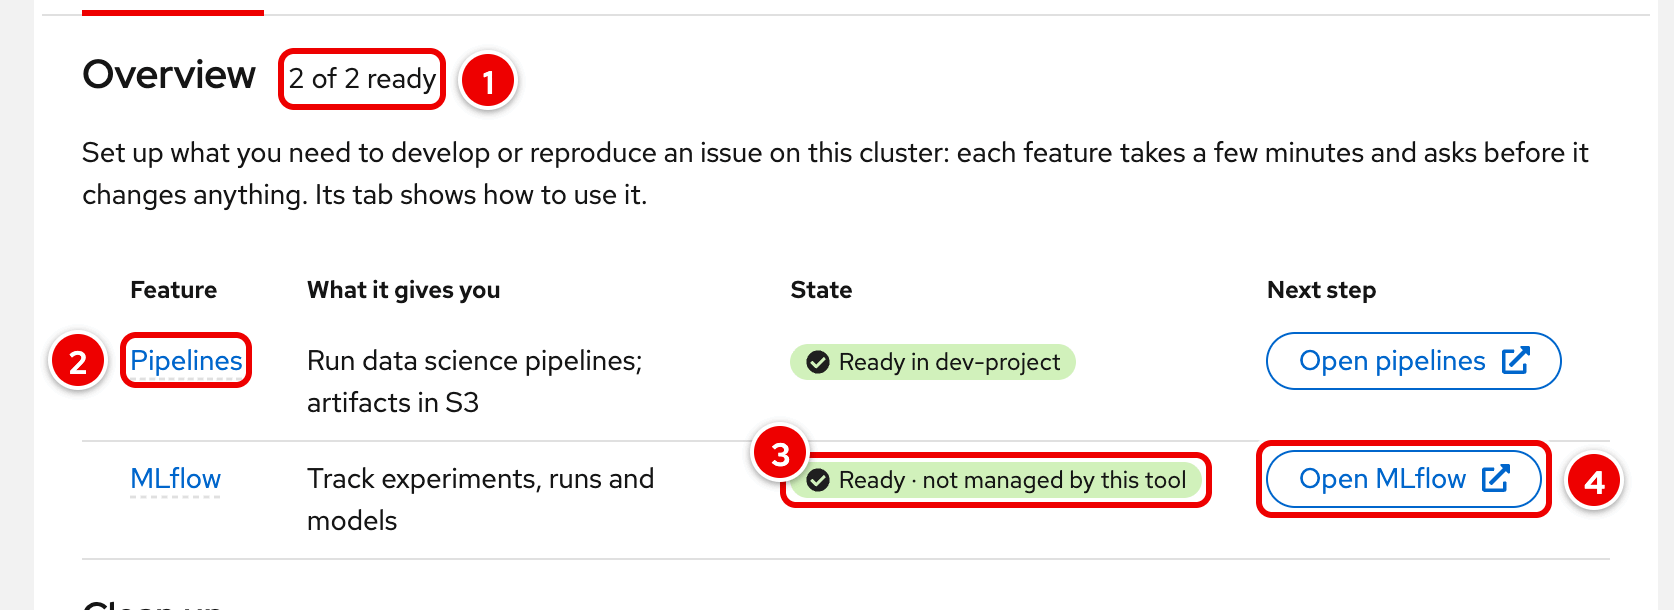
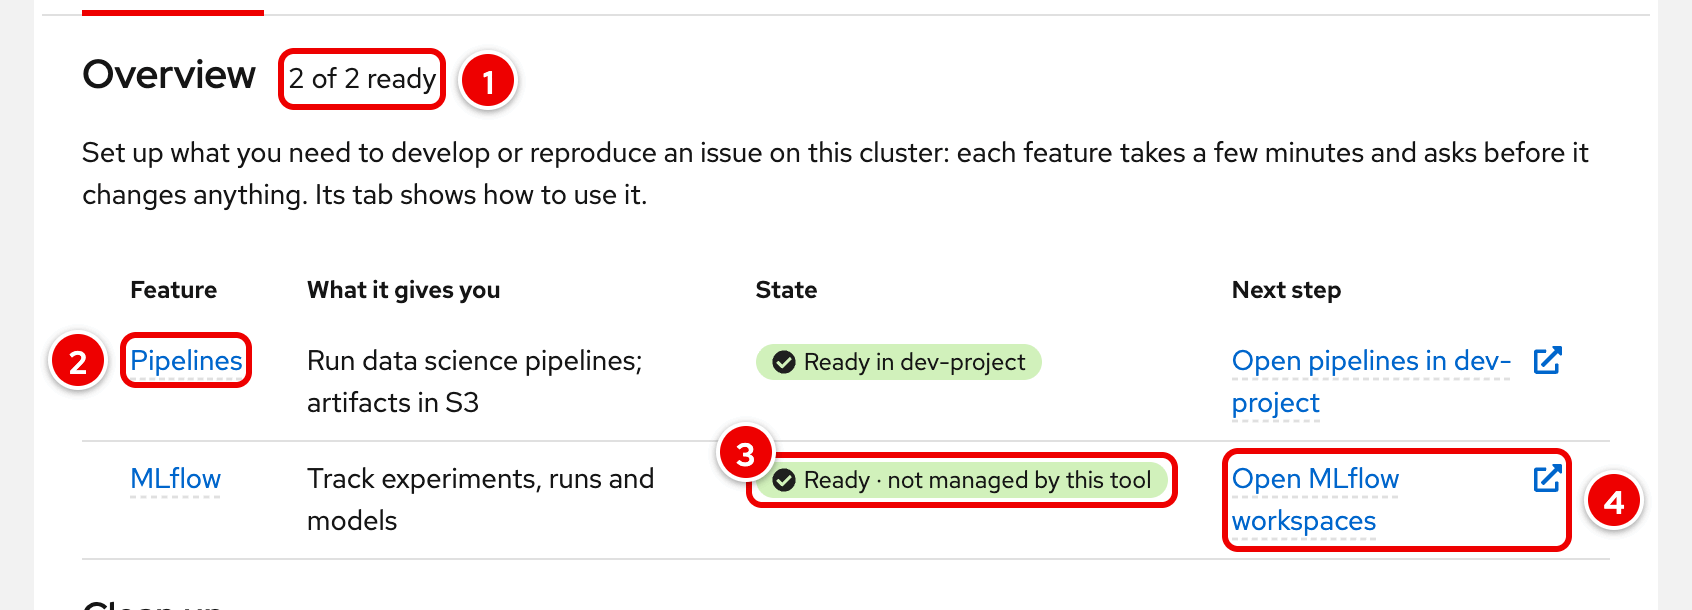
Environment: the Overview's next steps are links that say where they go
The Next step column held small secondary buttons in an action cell.
It is text in a table cell, so every step is now an inline link
(Button variant="link" isInline), as PatternFly puts links in table
cells: "Open pipelines in dev-project" and "Open MLflow workspaces" with
the external icon, "Show issue", "Choose a project", and the steps that
open a dialog with an ellipsis ("Set up MLflow…", "Migrate storage…").
hasAction and size="sm" are gone.

Every link to a project says which:
- One ready project: "Open pipelines in <project>", to its dashboard
  pipelines page (also on the pipeline server part, in the run dialog's
  primary button and in "What next").
- Several ready projects: no jump into one of them. The step is "Choose a
  project", which opens the Pipelines tab with an empty, focused picker;
  the State column says "Ready in 2 of 5 projects".
- MLflow's root is its list of workspaces (opendatahub-io/mlflow
  server/js MlflowRouter: "/" with workspaces on is a global route, the
  workspace landing page), so its link reads "Open MLflow workspaces",
  on the Overview and on the MLflow server part; "Use it" keeps "Open
  <project> in MLflow" for one workspace.

Measured on the docs mock (the vertical centre of each cell's first line
of text, from a Range's client rect), for Open, Show issue, Migrate
storage, Set up and Choose a project: at 1440, light and dark, Feature,
What it gives you and Next step are equal and the State label is 1.0 px
[…]

diff --git a/frontend/src/components/environment/Overview.tsx b/frontend/src/components/environment/Overview.tsx
@@ -2,8 +2,8 @@ import React from "react";
 import { Button, Content, Flex, FlexItem, HelperText, HelperTextItem, Stack, StackItem, Title } from "@patternfly/react-core";
 import { Table, Tbody, Td, Th, Thead, Tr } from "@patternfly/react-table";
 import { Link } from "react-router-dom";
+import ExternalLinkAltIcon from "@patternfly/react-icons/dist/esm/icons/external-link-alt-icon";
 import { TooltipButton } from "../TooltipButton";
-import { ExternalLink } from "./resourceRow";
 import { EnvStatusLabel } from "./resourceStatus";
 import { CleanupSection } from "./FeatureLayout";
 import type { FeatureState, NextStep } from "./featureState";
@@ -42,26 +42,31 @@ export const Overview: React.FC<{
   onCleanup: (() => void) | null;
 }> = ({ rows, baseReason, setUpReason, onSetUp, onShowIssue, onOpenTab, onMigrate, onCleanup }) => {
   const ready = rows.filter((r) => r.state.status === "ready").length;
+  // The next step is text in a cell, so it is an inline link, as PatternFly
+  // puts links in table cells (Button variant="link" isInline): it sits on
+  // the row's text line. A step that opens a dialog ends with an ellipsis.
   const next = (row: OverviewRow, step: NextStep | null) => {
     switch (step?.kind) {
       case "open":
-        return <ExternalLink href={step.href} variant="secondary" size="sm">{step.label}</ExternalLink>;
+        return <Button variant="link" isInline component="a" href={step.href} target="_blank" rel="noopener noreferrer" icon={<ExternalLinkAltIcon />} iconPosition="end">{step.label}</Button>;
       case "set-up": {
         const reason = setUpReason ?? baseReason ?? step.reason;
         const reasonId = `overview-${row.id}-reason`;
         return (
           <Stack>
-            <StackItem><TooltipButton variant="secondary" size="sm" onClick={() => onSetUp(row, step.setup)} disabledReason={reason} aria-describedby={reason ? reasonId : undefined}>{step.label}</TooltipButton></StackItem>
+            <StackItem><TooltipButton variant="link" isInline onClick={() => onSetUp(row, step.setup)} disabledReason={reason} aria-describedby={reason ? reasonId : undefined}>{step.label}…</TooltipButton></StackItem>
             {reason && <StackItem><HelperText id={reasonId}><HelperTextItem>{reason}</HelperTextItem></HelperText></StackItem>}
           </Stack>
         );
       }
       case "show-issue":
-        return <Button variant="secondary" size="sm" onClick={() => onShowIssue(row, step.part)}>Show issue</Button>;
+        return <Button variant="link" isInline onClick={() => onShowIssue(row, step.part)}>Show issue</Button>;
       case "migrate":
-        return setUpReason ? <Button variant="secondary" size="sm" onClick={() => onShowIssue(row, "storage")}>Show issue</Button> : <Button variant="secondary" size="sm" onClick={onMigrate}>Migrate storage</Button>;
+        return setUpReason
+          ? <Button variant="link" isInline onClick={() => onShowIssue(row, "storage")}>Show issue</Button>
+          : <Button variant="link" isInline onClick={onMigrate}>Migrate storage…</Button>;
       case "choose-project":
-        return <Button variant="secondary" size="sm" onClick={() => onOpenTab(row)}>Choose a project</Button>;
+        return <Button variant="link" isInline onClick={() => onOpenTab(row)}>Choose a project</Button>;
       default:
         return null;
     }
@@ -93,7 +98,7 @@ export const Overview: React.FC<{
                 <Td dataLabel="Feature"><Link to={row.href}>{row.name}</Link></Td>
                 <Td dataLabel="What it gives you">{row.gives}</Td>
                 <Td dataLabel="State"><EnvStatusLabel status={row.state.status} text={row.state.label} /></Td>
-                <Td dataLabel="Next step" hasAction>{next(row, row.state.next)}</Td>
+                <Td dataLabel="Next step">{next(row, row.state.next)}</Td>
               </Tr>
             ))}
           </Tbody>

diff --git a/frontend/src/components/environment/featureState.test.ts b/frontend/src/components/environment/featureState.test.ts
@@ -37,7 +37,8 @@ describe("defaultProject", () => {
 
 describe("pipelinesState and mlflowState", () => {
   it("readiness is health: someone else's running MLflow is Ready, with ownership in the label", () => {
-    expect(mlflowState(FIXTURES.live)).toEqual({ status: "ready", label: "Ready · not managed by this tool", next: { kind: "open", label: "Open MLflow", href: "https://mlflow" }, project: null });
+    // MLflow's root is its list of workspaces: the label says so.
+    expect(mlflowState(FIXTURES.live)).toEqual({ status: "ready", label: "Ready · not managed by this tool", next: { kind: "open", label: "Open MLflow workspaces", href: "https://mlflow" }, project: null });
     const broken = { ...FIXTURES.live, mlflow: { ...FIXTURES.live.mlflow, ready: false, terminalError: true, waitingReason: "CrashLoopBackOff" } };
     expect(mlflowState(broken)).toMatchObject({ status: "error", label: "Error · not managed by this tool", next: { kind: "show-issue", part: "mlflow" } });
     expect(mlflowState(FIXTURES.none)).toMatchObject({ status: "not-set-up", next: { kind: "set-up", setup: [{ kind: "setup-mlflow" }], reason: null } });
@@ -70,6 +71,11 @@ describe("pipelinesState and mlflowState", () => {
       const tab = pipelinesState(s, tabProject, projects);
       expect(tab.status).toBe(overview.status);
       if (!overview.label.includes(" of ")) expect(tab.label).toBe(overview.label.startsWith("Needs attention") || overview.label.startsWith("Error") && !overview.label.includes(" in ") ? `${overview.label} in ${tabProject}` : overview.label);
+      // A link to a project says which, and the Overview's is the tab's.
+      if (overview.next?.kind === "open") {
+        expect(overview.next.label).toBe(`Open pipelines in ${tabProject}`);
+        expect(tab.next).toEqual(overview.next);
+      }
     } else {
       // No project to open: the tab shows the same cross-project state.
       expect(overview.project).toBeNull();
@@ -98,6 +104,14 @@ describe("pipelinesState and mlflowState", () => {
     expect(setUpBlocked(pipelinesState(FIXTURES.none, "a-test-project", projects))).toBeNull();
     const m = mlflowState({ ...FIXTURES.none, mlflowBlocked: { component: "mlflowoperator", reason: "MLflow is turned off." } });
     expect(m.next).toMatchObject({ kind: "set-up", label: "Set up MLflow", reason: "MLflow is turned off." });
+  });
+
+  it("several ready projects: the Overview offers the tab's picker, not a jump into one of them", () => {
+    const two: ResourcesStatus = { ...FIXTURES.live, pipelineServers: [dspa("juntao-test"), dspa("zeta")] };
+    const overview = pipelinesState(two, null, projects);
+    expect(overview).toMatchObject({ status: "ready", label: `Ready in 2 of ${projects.length} projects`, next: { kind: "choose-project" } });
+    // The tab, in one of them, links there by name.
+    expect(pipelinesState(two, "zeta", projects).next).toMatchObject({ kind: "open", label: "Open pipelines in zeta" });
   });
 
   it("nothing is offered while every part exists and one is starting; storage of an earlier version points at Migrate storage", () => {

diff --git a/frontend/src/components/environment/featureState.ts b/frontend/src/components/environment/featureState.ts
@@ -135,7 +135,7 @@ function pipelinesIn(status: ResourcesStatus | null, project: string, busy: Busy
   // artifacts in storage of its own, so this tool's storage is not its dependency.
   if (server.status === "ready" && (storage.status === "ready" || server.unmanaged)) {
     const href = pipelineServerIn(status, project)?.uiRoute;
-    return { status: "ready", label: `Ready in ${project}${unmanaged ? NOT_MANAGED : ""}`, next: href ? { kind: "open", label: "Open pipelines", href } : null, project };
+    return { status: "ready", label: `Ready in ${project}${unmanaged ? NOT_MANAGED : ""}`, next: href ? { kind: "open", label: `Open pipelines in ${project}`, href } : null, project };
   }
   if (server.status === "unknown") return { status: "unknown", label: `Unknown in ${project}${NOT_MANAGED}`, next: null, project };
   const setup: Pending[] = [];
@@ -189,9 +189,9 @@ export function pipelinesState(status: ResourcesStatus | null, project: string |
   const states = withServers.map((p) => pipelinesIn(status, p, busy));
   const ready = states.filter((s) => s.status === "ready");
   if (ready.length === 1) return ready[0];
+  // Several ready projects: no jump to one of them; the tab's picker decides.
   if (ready.length > 1) {
-    const first = ready[0];
-    return { status: "ready", label: `Ready in ${ready.length} of ${projects.length} projects`, next: first.next, project: first.project };
+    return { status: "ready", label: `Ready in ${ready.length} of ${projects.length} projects`, next: { kind: "choose-project" }, project: null };
   }
   const problem = states.find((s) => PROBLEM.includes(s.status)) ?? states.find((s) => MOVING.includes(s.status) || s.status === "setting-up") ?? states.find((s) => s.status === "unknown");
   if (problem) return problem;
@@ -207,6 +207,13 @@ export function mlflowStatus(status: ResourcesStatus | null, busy: Busy): EnvSta
   return envStatus(status?.mlflow, { busy: b });
 }
 
+/**
+ * The label of a link to MLflow's root: with workspaces on, its root is the
+ * list of workspaces, one per project (opendatahub-io/mlflow server/js
+ * MlflowRouter: "/" is a global route, WorkspacesHomeView).
+ */
+export const MLFLOW_WORKSPACES = "Open MLflow workspaces";
+
 export function mlflowState(status: ResourcesStatus | null, busy: Busy = IDLE): FeatureState {
   const mlflow = status?.mlflow;
   const s = mlflowStatus(status, busy);
@@ -214,7 +221,7 @@ export function mlflowState(status: ResourcesStatus | null, busy: Busy = IDLE): 
   const suffix = unmanaged ? NOT_MANAGED : "";
   switch (s) {
     case "ready":
-      return { status: s, label: `Ready${suffix}`, next: mlflow?.uiRoute ? { kind: "open", label: "Open MLflow", href: mlflow.uiRoute } : null, project: null };
+      return { status: s, label: `Ready${suffix}`, next: mlflow?.uiRoute ? { kind: "open", label: MLFLOW_WORKSPACES, href: mlflow.uiRoute } : null, project: null };
     case "error":
     case "needs-attention":
       return { status: s, label: `${s === "error" ? "Error" : "Needs attention"}${suffix}`, next: { kind: "show-issue", part: "mlflow" }, project: null };

diff --git a/frontend/src/pages/EnvironmentPage.test.tsx b/frontend/src/pages/EnvironmentPage.test.tsx
@@ -43,8 +43,8 @@ describe("Environment page", () => {
     const table = screen.getByRole("grid", { name: "Features" });
     expect(within(table).getAllByRole("row").slice(1).map((r) => within(r).getAllByRole("cell")[0].textContent)).toEqual(["Pipelines", "MLflow"]);
     expect(await row("Pipelines")).toHaveTextContent("Not set up in any project");
-    expect(within(await row("Pipelines")).getByRole("button", { name: "Choose a project" })).toBeInTheDocument();
-    expect(within(await row("MLflow")).getByRole("button", { name: "Set up MLflow" })).toBeInTheDocument();
+    expect(within(await row("Pipelines")).getByRole("button", { name: "Choose a project" })).toHaveClass("pf-m-inline");
+    expect(within(await row("MLflow")).getByRole("button", { name: "Set up MLflow…" })).toBeInTheDocument();
     // No endpoints, logins or teardown on the Overview.
     expect(screen.getByRole("tabpanel")).not.toHaveTextContent(/seaweedfs|Password|Tear down/);
   });
@@ -58,7 +58,9 @@ describe("Environment page", () => {
     expect(await screen.findByText("2 of 2 ready")).toBeInTheDocument();
     const mlflow = await row("MLflow");
     expect(mlflow).toHaveTextContent("Ready · not managed by this tool");
-    expect(within(mlflow).getByRole("link", { name: /Open MLflow/ })).toHaveAttribute("href", "https://mlflow.apps.example.com");
+    expect(within(mlflow).getByRole("link", { name: /Open MLflow workspaces/ })).toHaveAttribute("href", "https://mlflow.apps.example.com");
+    // One ready project: the link says which, as an inline link in the cell.
+    expect(within(await row("Pipelines")).getByRole("link", { name: /Open pipelines in juntao-test/ })).toHaveClass("pf-m-inline");
     const pipelines = await row("Pipelines");
     expect(pipelines).toHaveTextContent("Ready in juntao-test");
     expect(within(pipelines).getByRole("link", { name: "Pipelines" })).toHaveAttribute("href", "/test-resources?tab=pipelines&project=juntao-test");
@@ -79,6 +81,11 @@ describe("Environment page", () => {
     });
     renderPage("/test-resources");
     expect(await row("Pipelines")).toHaveTextContent("Ready in 2 of 5 projects");
+    // Several ready projects: no jump into one of them; the tab's picker decides.
+    expect(within(await row("Pipelines")).queryByRole("link", { name: /Open pipelines/ })).not.toBeInTheDocument();
+    fireEvent.click(within(await row("Pipelines")).getByRole("button", { name: "Choose a project" }));
+    expect(await screen.findByText("No project chosen")).toBeInTheDocument();
+    expect(screen.getByRole("combobox", { name: "Project" })).toHaveValue("");
   });
 
   it("keeps the tab and the project in the URL; back and forward work; old tabs open Pipelines", async () => {

diff --git a/frontend/src/components/environment/PipelinesTab.tsx b/frontend/src/components/environment/PipelinesTab.tsx
@@ -264,7 +264,7 @@ const PipelineServerPart: React.FC<PipelinesTabProps> = ({ status, project, busy
     : [];
   return (
     <PartItem id="pipeline-server" title="Pipeline server" scope={`In project ${project}`} status={pipelineServerStatus(status, project, busy)} unmanaged={unmanaged}
-      actions={server?.ready && server.uiRoute && !isTerminating(server) ? <ActionListItem><ExternalLink href={server.uiRoute}>Open pipelines</ExternalLink></ActionListItem> : undefined}
+      actions={server?.ready && server.uiRoute && !isTerminating(server) ? <ActionListItem><ExternalLink href={server.uiRoute}>Open pipelines in {project}</ExternalLink></ActionListItem> : undefined}
       menu={menu}>
       {unmanaged
         ? <Content component="p">Created outside this tool (for example in the dashboard); this tool leaves it alone.</Content>
@@ -285,7 +285,7 @@ const UsePipelines: React.FC<{ server: ResourceState; project: string }> = ({ se
         <DescriptionListGroup>
           <DescriptionListTerm>In the dashboard</DescriptionListTerm>
           <DescriptionListDescription>
-            <Content component="p">Open pipelines shows this project&apos;s pipelines and runs. Choose Import pipeline to upload a pipeline (a compiled YAML file), then Create run.</Content>
+            <Content component="p">Open pipelines in {project} shows its pipelines and runs. Choose Import pipeline to upload a pipeline (a compiled YAML file), then Create run.</Content>
           </DescriptionListDescription>
         </DescriptionListGroup>
       )}
@@ -365,7 +365,7 @@ export const PipelinesTab: React.FC<PipelinesTabProps> = (props) => {
           <StackItem><UsePipelines server={server} project={project} /></StackItem>
           <StackItem>
             <WhatNext id="pipelines-next" items={[
-              <>Open pipelines, then choose Import pipeline to upload a compiled pipeline.</>,
+              <>Open pipelines in {project}, then choose Import pipeline to upload a compiled pipeline.</>,
               <>Create a run; its steps write their artifacts to the S3 storage.</>,
               <>Follow the run and open its artifacts from the run&apos;s page.</>,
             ]} />

diff --git a/frontend/src/components/QuickResourceCreator.tsx b/frontend/src/components/QuickResourceCreator.tsx
@@ -403,8 +403,8 @@ export const QuickResourceCreator: React.FC<QuickResourceCreatorProps> = ({ muta
   const runNext: NextStep | null = run.run?.kind === "setup" ? (runFeature === "mlflow" ? mlflowNow.next : pipelines.next) : null;
   const whatNext = run.run?.kind === "setup"
     ? <Content component="p">{runFeature === "mlflow"
-      ? "Open MLflow to see the experiments of a project. The MLflow tab shows how to log runs from a notebook or script."
-      : "Open pipelines to import a pipeline and create a run. The Pipelines tab shows how to use the pipeline server."}</Content>
+      ? "Open MLflow workspaces to choose a project and see its experiments. The MLflow tab shows how to log runs from a notebook or script."
+      : `${runNext?.kind === "open" ? runNext.label : "Open pipelines"} to import a pipeline and create a run. The Pipelines tab shows how to use the pipeline server.`}</Content>
     : undefined;
   const outcome = run.run ? runOutcome(run.run) : null;
 
@@ -462,7 +462,7 @@ export const QuickResourceCreator: React.FC<QuickResourceCreatorProps> = ({ muta
                   <Overview rows={overviewRows} baseReason={baseReason} setUpReason={readOnly ? READ_ONLY_SETUP : null}
                     onSetUp={(row, setup) => setUp(row.name, setup)}
                     onShowIssue={(row, part) => { navigate({ tab: row.id as EnvironmentTab, ...(row.state.project ? { project: row.state.project } : {}) }); setFocusTarget(partTitleId(part)); }}
-                    onOpenTab={(row) => { navigate({ tab: row.id as EnvironmentTab }); setFocusTarget("pipelines-project"); }}
+                    onOpenTab={(row) => { navigate({ tab: row.id as EnvironmentTab, project: "" }); setFocusTarget("pipelines-project"); }}
                     onMigrate={() => setMigrateKind("migrate")}
                     onCleanup={!readOnly && anythingToClean ? () => setCleanupScope("all") : null} />
                 )}

diff --git a/frontend/src/components/environment/MLflowTab.tsx b/frontend/src/components/environment/MLflowTab.tsx
@@ -24,7 +24,7 @@ import { ImageRef } from "../ImageRef";
 import { type ConfirmSpec, type Pending, ExternalLink, ProblemAlerts, StartingNote, consolePodsHref, isTerminating, pvcsLost, terminalReason } from "./resourceRow";
 import { CleanupSection, CreatesList, FeatureHeader, FeatureSection, PartItem, PartList, type PartMenuItem, PrimaryAction, TabSection, WhatNext } from "./FeatureLayout";
 import { notManaged } from "./resourceStatus";
-import { type Busy, type FeatureState, mlflowStatus } from "./featureState";
+import { MLFLOW_WORKSPACES, type Busy, type FeatureState, mlflowStatus } from "./featureState";
 import { ProjectSelect, type ProjectOption } from "./ProjectSelect";
 import { READ_ONLY_SETUP } from "./PipelinesTab";
 import { ComponentAlert, CopyableCode, NoProjectsAlert, mlflowClientEnv, mlflowWorkspaceHref } from "./UseIt";
@@ -154,7 +154,7 @@ export const MLflowTab: React.FC<MLflowTabProps> = (props) => {
   if (mlflow?.prOverride && !readOnly) {
     actions.push(<ActionListItem key="revert"><TooltipButton variant="secondary" onClick={revert} isLoading={busy.resAction === "revert-mlflow"} disabledReason={baseReason}>Revert the PR image</TooltipButton></ActionListItem>);
   }
-  if (mlflow?.ready && mlflow.uiRoute) actions.push(<ActionListItem key="open"><ExternalLink href={mlflowWorkspaceHref(mlflow.uiRoute, props.project)}>Open MLflow</ExternalLink></ActionListItem>);
+  if (mlflow?.ready && mlflow.uiRoute) actions.push(<ActionListItem key="open"><ExternalLink href={mlflow.uiRoute}>{MLFLOW_WORKSPACES}</ExternalLink></ActionListItem>);
   const menu: PartMenuItem[] = managed && !readOnly && !isTerminating(mlflow)
     ? [{ key: "delete", label: "Delete MLflow…", onClick: () => setPending({ kind: "teardown-mlflow" }), disabledReason: baseReason ?? mlflow?.teardownBlockedReason ?? null, isDanger: true }]
     : [];

diff --git a/frontend/src/components/QuickResourceOwnership.test.tsx b/frontend/src/components/QuickResourceOwnership.test.tsx
@@ -157,14 +157,14 @@ describe("health and ownership are separate", () => {
     ["someone else's, running", browserMlflow, "Ready", true, true],
     ["someone else's, broken", brokenForeignMlflow, "Error", true, false],
     ["this tool's, running", ownMlflow, "Ready", false, true],
-  ])("MLflow tab, %s: health, ownership apart, Open when ready (in the project's workspace), Delete only for this tool's", async (_name, mlflow, status, foreign, open) => {
+  ])("MLflow tab, %s: health, ownership apart, Open its workspaces when ready, Delete only for this tool's", async (_name, mlflow, status, foreign, open) => {
     setup(live({ mlflow: mlflow as ResourceState }));
     renderAt("/test-resources?tab=mlflow&project=juntao-test");
     const server = await part("MLflow server");
     expect(within(server).getByText(status as string)).toBeInTheDocument();
     if (foreign) expect(within(server).getByText("Not managed by this tool")).toBeInTheDocument();
     else expect(within(server).queryByText("Not managed by this tool")).not.toBeInTheDocument();
-    if (open) expect(within(server).getByRole("link", { name: /Open MLflow/ })).toHaveAttribute("href", "https://mlflow.apps.example.com/#/experiments?workspace=juntao-test");
+    if (open) expect(within(server).getByRole("link", { name: /Open MLflow workspaces/ })).toHaveAttribute("href", "https://mlflow.apps.example.com");
     else expect(within(server).queryByRole("link", { name: /Open MLflow/ })).not.toBeInTheDocument();
     if (foreign) {
       expect(await menuItem("MLflow server", /Delete MLflow/)).toBeNull();

diff --git a/frontend/src/components/environment/resourceRow.tsx b/frontend/src/components/environment/resourceRow.tsx
@@ -191,8 +191,8 @@ export const createdBy = (state: ResourceState | undefined) => state?.managedByT
 /** An external link as a full-size link button, for action rows (isInline is
  *  for links inside running text: it drops the button height, so the link
  *  would sit higher than the buttons beside it). */
-export const ExternalLink: React.FC<{ href: string; children: React.ReactNode; variant?: "link" | "primary" | "secondary"; size?: "sm" }> = ({ href, children, variant = "link", size }) => (
-  <Button variant={variant} size={size} component="a" href={href} target="_blank" rel="noopener noreferrer" icon={<ExternalLinkAltIcon />} iconPosition="end">{children}</Button>
+export const ExternalLink: React.FC<{ href: string; children: React.ReactNode; variant?: "link" | "primary" | "secondary" }> = ({ href, children, variant = "link" }) => (
+  <Button variant={variant} component="a" href={href} target="_blank" rel="noopener noreferrer" icon={<ExternalLinkAltIcon />} iconPosition="end">{children}</Button>
 );
 
 /** An OpenShift console page of a Deployment's pods (with their logs), or undefined without a console address. */

diff --git a/README.md b/README.md
@@ -73,12 +73,12 @@ It deploys RHOAI Konflux builds (`odh-pr-<N>`, `odh-stable`) or ODH OpenShift CI
 
 One tab per feature after an **Overview**, kept in the address so a link opens the same view (`?tab=pipelines&project=<name>`, `?tab=mlflow`).
 
-<img src="docs/images/environment-overview.png" alt="Overview: 2 of 2 ready; Pipelines Ready in dev-project with Open pipelines; MLflow Ready, not managed by this tool, with Open MLflow" width="760">
+<img src="docs/images/environment-overview.png" alt="Overview: 2 of 2 ready; Pipelines Ready in dev-project with Open pipelines in dev-project; MLflow Ready, not managed by this tool, with Open MLflow workspaces" width="760">
 
 1. How many features are ready.
 2. Each feature links to its tab (a project-scoped one with its project).
 3. Its state, from the same function as the tab: **Ready**, **Not set up**, **Needs attention**, **Error**, ... Something this tool did not create reads **Ready · not managed by this tool** when it works: ownership never counts as not ready. A project-scoped feature summarises its projects ("Ready in juntao-test", "Ready in 2 of 5 projects", "Not set up in any project").
-4. The next step: **Open**, **Set up** (confirm, then a check that every part can be set up, then the missing parts in order, each counted only once it works), **Migrate storage**, **Show issue** (opens the tab at that part) or **Choose a project**. A step that cannot run says why under it.
+4. The next step, a link in the row: **Open pipelines in** its one ready project (with several ready projects, **Choose a project**: the tab's picker decides), **Open MLflow workspaces** (its list of projects), **Set up** (confirm, then a check that every part can be set up, then the missing parts in order, each counted only once it works), **Migrate storage**, **Show issue** (opens the tab at that part) or **Choose a project**. A step that cannot run says why under it.
 
 Under the table, **Clean up everything** deletes what this tool created (the pipeline servers, the S3 storage, MLflow) in one confirmed operation, with a checkbox per part.
 
